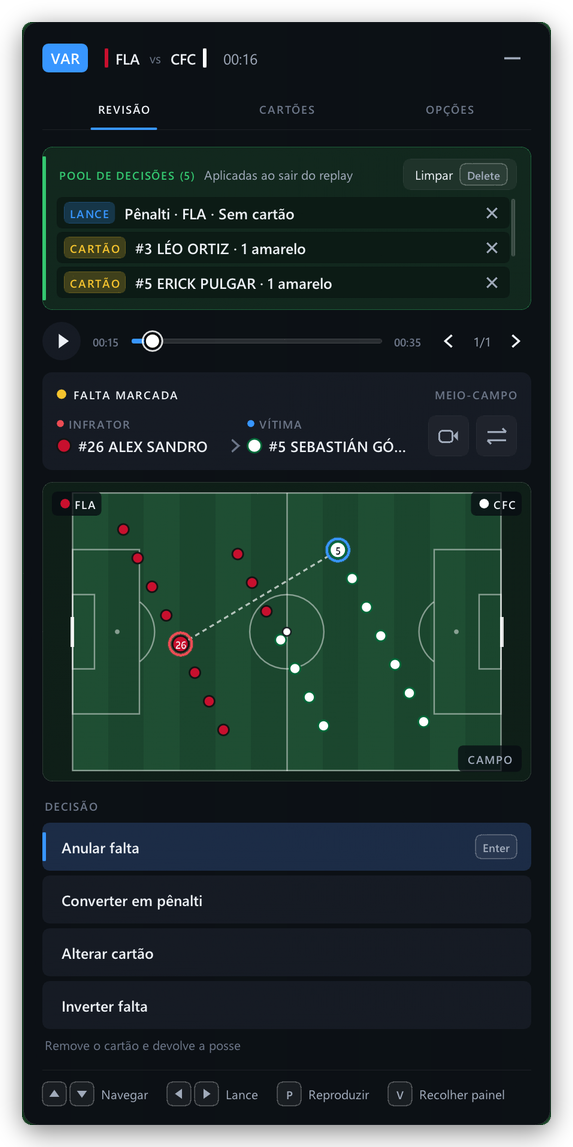
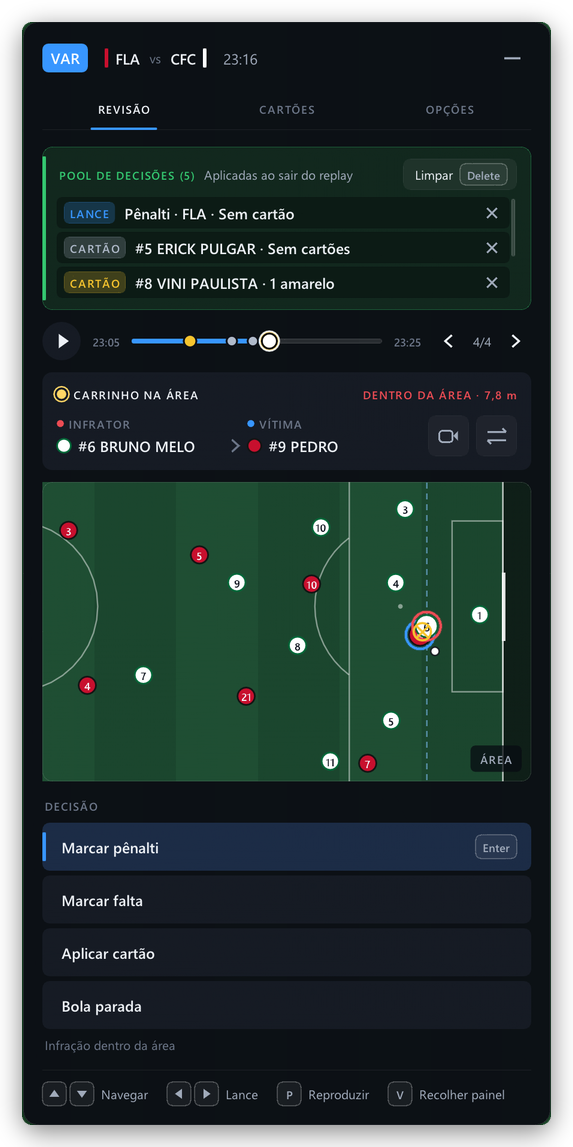
docs: capturas com lance realista no meio da partida
Fixture do HUD simula 20 s de replay aos 23 min: falta marcada, dividida e carrinho na area nao marcado (lance suspeito). Imagens do README regeradas.

diff --git a/native/tests/test_var_core.cpp b/native/tests/test_var_core.cpp
@@ -1977,6 +1977,12 @@ void DumpDrawDataBmp(const char* name, const unsigned char* fontPx, int fontW, i
 // Runs the real VarHudRenderer::RenderFrame under ImGui with asserts enabled: any Begin/End,
 // PushClipRect/PopClipRect, BeginChild/EndChild, font or ID stack imbalance aborts the suite.
 // ---------------------------------------------------------------------------
+float DistSq2DForTest(const Vec3& a, const Vec3& b) {
+    const float dx = a.x - b.x;
+    const float dz = a.z - b.z;
+    return dx * dx + dz * dz;
+}
+
 void TestHudRenderSmoke() {
     auto& st = VarState::Instance();
     st.ResetMatch();
@@ -1992,26 +1998,111 @@ void TestHudRenderSmoke() {
     int tw = 0, th = 0;
     char shotName[64];
 
-    // A few snapshots + an event so timeline, incident card and radar have content
-    for (int i = 0; i < 40; ++i) {
+    // A real-looking replay window: 1st half, 23:05 to 23:25, FLA (home) builds up from midfield and CFC (away)
+    // defends its box. Three plays on the bar: a foul the referee gave in midfield (23:10), a
+    // standing tackle with nobody going down (23:13) and a slide that floors the striker inside the box with
+    // no call (23:16), the suspect. The cursor sits on that slide, so the pitch shows the contact in the box.
+    constexpr float kWinStart = 83100.0f; // 23:05
+    constexpr float kWinEnd   = 84300.0f; // 23:25
+    constexpr float kOfficial = 83400.0f; // 23:10
+    constexpr float kChallenge = 83580.0f; // 23:13
+    constexpr float kSuspect  = 83760.0f; // 23:16
+    PitchDims dims{};
+    const float attackDir[2] = { -1.0f, 1.0f }; // per-team box side used by the engine geometry (CFC: +x)
+    auto lerp = [](float a, float b, float k) { return a + (b - a) * std::clamp(k, 0.0f, 1.0f); };
+    auto sceneAt = [&](float time, PlaySnapshot& sn) {
+        // Two key formations (FLA attacks +x, CFC defends the +x box): build-up around midfield at 23:05 and the
+        // attack settled around the box at the slide. Players glide between them, then drift slightly.
+        static const float kStart[22][2] = {
+            { -46.0f, 0.0f }, { -18.0f, 22.0f }, { -24.0f, -7.0f }, { -23.0f, 8.0f }, { -17.0f, -22.0f },
+            { -4.0f, -9.0f }, { -6.0f, 7.0f }, { 5.0f, -2.0f }, { 12.0f, -20.0f }, { 13.0f, 19.0f }, { 16.0f, 2.0f },
+            { 49.0f, 0.0f }, { 29.0f, -19.0f }, { 30.0f, -6.0f }, { 30.0f, 7.0f }, { 28.0f, 20.0f },
+            { 4.0f, -9.0f }, { 6.0f, 4.0f }, { 8.0f, 17.0f }, { 14.0f, -12.0f }, { -8.0f, 6.0f }, { -10.0f, -12.0f },
+        };
+        static const float kBox[22][2] = {
+            { -40.0f, 0.0f }, { 22.0f, 24.0f }, { 6.0f, -8.0f }, { 8.0f, 9.0f }, { 27.0f, -25.0f },
+            { 20.0f, -6.0f }, { 25.0f, 10.0f }, { 32.0f, -2.0f }, { 39.0f, -16.0f }, { 38.0f, 16.5f }, { 43.6f, 3.6f },
+            { 50.0f, 1.0f }, { 42.0f, -11.0f }, { 41.0f, -2.5f }, { 44.3f, 2.7f }, { 40.5f, 12.0f },
+            { 33.0f, -9.0f }, { 30.5f, 4.5f }, { 34.0f, 17.0f }, { 24.0f, -3.0f }, { 14.0f, 7.0f }, { 16.0f, -15.0f },
+        };
+        const float s = (time - kWinStart) / (kSuspect - kWinStart);
+        const float k = std::clamp(s, 0.0f, 1.0f);
+        const float ease = k * k * (3.0f - 2.0f * k);
+        const float after = std::max(0.0f, time - kSuspect) / 60.0f; // seconds after the slide
+        for (int p = 0; p < 22; ++p) {
+            const float wob = 0.6f * std::sin(time * 0.003f + static_cast<float>(p) * 1.7f);
+            const float drift = (p == 10 || p == 14) ? 0.0f : std::min(after, 3.0f) * ((p < 11) ? 0.5f : -0.3f);
+            sn.playerOnPitch[p] = 1;
+            sn.playerPos[p] = Vec3{ lerp(kStart[p][0], kBox[p][0], ease) + drift, 0.0f, lerp(kStart[p][1], kBox[p][1], ease) + wob };
+        }
+        // The plays: Pulgar (5) on Josue (16) in midfield, Vini Paulista (17) into Arrascaeta (7)
+        auto meet = [&](int a, int b, const Vec3& at, float when, float width) {
+            const float w = 1.0f - std::clamp(std::fabs(time - when) / width, 0.0f, 1.0f);
+            sn.playerPos[a] = Vec3{ lerp(sn.playerPos[a].x, at.x - 0.5f, w), 0.0f, lerp(sn.playerPos[a].z, at.z - 0.3f, w) };
+            sn.playerPos[b] = Vec3{ lerp(sn.playerPos[b].x, at.x + 0.5f, w), 0.0f, lerp(sn.playerPos[b].z, at.z + 0.3f, w) };
+        };
+        meet(5, 16, Vec3{ 3.0f, 0.0f, -8.0f }, kOfficial, 70.0f);
+        meet(17, 7, Vec3{ 21.0f, 0.0f, 0.5f }, kChallenge, 60.0f);
+        // The slide: Bruno Melo goes through and ends past Pedro, who stays down where he was hit
+        if (time > kSuspect) {
+            const float slide = std::min(after / 0.6f, 1.0f);
+            sn.playerPos[14] = Vec3{ lerp(44.3f, 46.6f, slide), 0.0f, lerp(2.7f, 0.6f, slide) };
+        }
+        // Ball: with the man on it, then loose after the slide
+        Vec3 ball{};
+        if (time < kOfficial) ball = sn.playerPos[16];
+        else if (time < kChallenge) ball = sn.playerPos[7];
+        else if (time < kSuspect) ball = sn.playerPos[10];
+        else ball = Vec3{ lerp(44.6f, 40.0f, after / 4.0f), 0.0f, lerp(4.4f, 11.0f, after / 4.0f) };
+        sn.ballPos = Vec3{ ball.x + 0.6f, 0.11f, ball.z + 0.4f };
+        sn.ballOwnerSlot = (time < kSuspect) ? ((time < kOfficial) ? 16 : (time < kChallenge) ? 7 : 10) : -1;
+    };
+    for (int i = 0; i < static_cast<int>(kWinEnd - kWinStart); ++i) {
         PlaySnapshot sn{};
         sn.matchPhase = 0;
-        sn.time60Hz = 900.0f + static_cast<float>(i) * 30.0f;
-        sn.matchTick = static_cast<uint32_t>(5000 + i);
-        for (int p = 0; p < 22; ++p) {
-            sn.playerOnPitch[p] = 1;
-            sn.playerPos[p] = Vec3{ -40.0f + static_cast<float>(p) * 3.5f, 0.0f, static_cast<float>((p * 7) % 50) - 25.0f };
-        }
+        sn.time60Hz = kWinStart + static_cast<float>(i);
+        sn.matchTick = static_cast<uint32_t>(50000 + i);
+        sceneAt(sn.time60Hz, sn);
+        VarState::ComputeClosestContact(sn);
         st.PushSnapshot(sn);
     }
+    auto incident = [&](IncidentKind kind, int32_t prio, int off, int vic, float when, bool nearFoul) {
+        PlaySnapshot sn{};
+        sceneAt(when, sn);
+        DetectedIncident inc{};
+        inc.matchPhase = 0;
+        inc.time60Hz = when;
+        inc.lastSeenTime60Hz = when + 12.0f;
+        inc.matchTick = static_cast<uint32_t>(50000 + static_cast<int>(when - kWinStart));
+        inc.kind = kind;
+        inc.priority = prio;
+        inc.offenderSlot = off;
+        inc.victimSlot = vic;
+        inc.pos = Vec3{ 0.35f * sn.playerPos[off].x + 0.65f * sn.playerPos[vic].x, 0.0f,
+                        0.35f * sn.playerPos[off].z + 0.65f * sn.playerPos[vic].z };
+        inc.contactDistM = std::sqrt(DistSq2DForTest(sn.playerPos[off], sn.playerPos[vic]));
+        inc.boxDistM = PitchGeometry::SignedDistanceToDefendingBox(dims, inc.pos, attackDir[SlotToTeam(off)]);
+        inc.boxDistValid = true;
+        inc.insideBox = inc.boxDistM < 0.0f;
+        inc.nearFoul = nearFoul;
+        st.PushDetectedIncident(inc);
+    };
+    incident(IncidentKind::BodyCharge, 66, 5, 16, kOfficial - 20.0f, true);   // folded into the official foul
+    incident(IncidentKind::StandTackle, 70, 17, 7, kChallenge, false);       // challenge, nobody down
+    incident(IncidentKind::SlideTackle, 88, 14, 10, kSuspect, true);         // the missed penalty
     VarEvent ev{};
     ev.type = VarEventType::Foul;
     ev.matchPhase = 0;
-    ev.time60Hz = 1000.0f;
-    ev.matchTick = 5003;
-    ev.offenderSlot = 4;
-    ev.victimSlot = 15;
+    ev.time60Hz = kOfficial;
+    ev.matchTick = 50300;
+    ev.offenderSlot = 5;
+    ev.victimSlot = 16;
     ev.benefitedTeam = 1;
+    {
+        PlaySnapshot sn{};
+        sceneAt(kOfficial, sn);
+        ev.pos = sn.playerPos[16];
+    }
     st.PushEvent(ev);
 
     // Real data read from the running game (Flamengo x Coritiba, patched game): names, numbers, short names
@@ -2074,7 +2165,7 @@ void TestHudRenderSmoke() {
             HudConfig c{};
             c.language = lang;
             st.SetHudConfig(c, false);
-            PatchReplayTelemetryForTest(true, 0, 1000.0f, 900.0f, 2100.0f);
+            PatchReplayTelemetryForTest(true, 0, kSuspect, kWinStart, kWinEnd);
             VarHudRenderer::RequestReset();
             io.DisplaySize = ImVec2(sz[0], sz[1]);
             VarHudRenderer::EnsureFonts(sz[0], sz[1]);
@@ -2179,16 +2270,26 @@ void TestHudRenderSmoke() {
             // Multi-item Decision Pool (1 play + 4 cards -> exercises >3 scrollable pool + CARTOES badges + collapsed pill)
             VarVerdict armedV{};
             armedV.action = VarAction::RetroactivePenalty;
-            armedV.offenderSlot = 4;
-            std::snprintf(armedV.summary, sizeof(armedV.summary), "%s", lang ? "Penalty \xC2\xB7 AWY \xC2\xB7 Yellow" : "P\xC3\xAAnalti \xC2\xB7 FOR \xC2\xB7 Amarelo");
+            armedV.offenderSlot = 14;
+            armedV.victimSlot = 10;
+            std::snprintf(armedV.summary, sizeof(armedV.summary), "%s",
+                          lang ? "Penalty \xC2\xB7 FLA \xC2\xB7 Yellow #6 Bruno Melo"
+                               : "P\xC3\xAAnalti \xC2\xB7 FLA \xC2\xB7 Amarelo #6 Bruno Melo");
             st.ArmVerdict(armedV);
-            for (int cs : { 2, 5, 10, 15 }) {
+            struct CardEdit { int slot; int yellows; const char* pt; const char* en; };
+            const CardEdit edits[] = {
+                { 5,  0, "Cart\xC3\xA3o \xC2\xB7 #5 Erick Pulgar \xC2\xB7 sem cart\xC3\xA3o", "Card \xC2\xB7 #5 Erick Pulgar \xC2\xB7 no card" },
+                { 17, 1, "Cart\xC3\xA3o \xC2\xB7 #8 Vini Paulista \xC2\xB7 1 amarelo", "Card \xC2\xB7 #8 Vini Paulista \xC2\xB7 1 yellow" },
+                { 16, 1, "Cart\xC3\xA3o \xC2\xB7 #10 Josu\xC3\xA9 \xC2\xB7 1 amarelo", "Card \xC2\xB7 #10 Josu\xC3\xA9 \xC2\xB7 1 yellow" },
+                { 6,  1, "Cart\xC3\xA3o \xC2\xB7 #21 Jorginho \xC2\xB7 1 amarelo", "Card \xC2\xB7 #21 Jorginho \xC2\xB7 1 yellow" },
+            };
+            for (const auto& ce : edits) {
                 VarVerdict cv{};
                 cv.action = VarAction::EditCard;
-                cv.offenderSlot = cs;
+                cv.offenderSlot = ce.slot;
                 cv.directCardEdit = true;
-                cv.directYellows = (cs == 10) ? 0 : 1;
-                std::snprintf(cv.summary, sizeof(cv.summary), "Cart\xC3\xA3o \xC2\xB7 #%d \xC2\xB7 1 amarelo", cs + 1);
+                cv.directYellows = ce.yellows;
+                std::snprintf(cv.summary, sizeof(cv.summary), "%s", lang ? ce.en : ce.pt);
                 st.ArmVerdict(cv);
             }
             st.SetPostApplyBanner("DECISÃO DO VAR APLICADA", 4000);
